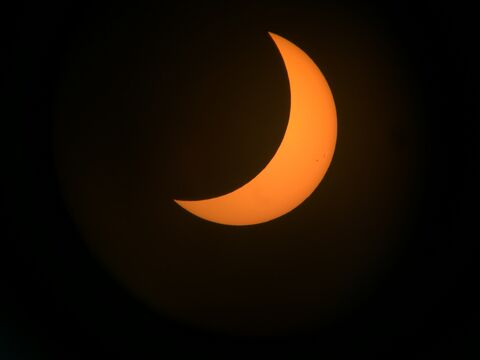
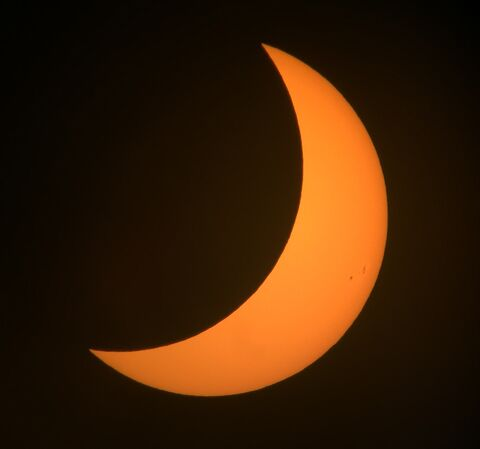
Update gallery

diff --git a/data/images/august-21-2017-total-solar-eclipse-2017-08-21.md b/data/images/august-21-2017-total-solar-eclipse-2017-08-21.md
@@ -13,8 +13,8 @@ sensor: iPhone 6 Plus
 sensor_temp_c:
 sub_seconds:
 sub_count:
-filter: 
-processing: iPhone 
+filter: none
+processing: []
 location: "Athens, TN"
 moon_illum_pct:
 object_type: Sun
@@ -23,9 +23,10 @@ catalogs: []
 constellation: 
 is_event: false
 event_type: 
-tags: [Sun,eclipse,solar eclipse]
+tags: [Sun, eclipse, solar eclipse]
 license: CC BY-NC 4.0
 master: "questar-iphone-archive/2017-08-21-total-solar-eclipse.jpg"
+crop: "0.2599,0.0219,0.5484,0.6845"
 ---
 
 Seestar S50 stack. Captured from the Athens, TN.

diff --git a/data/images/m45-the-pledies-2025-10-25.md b/data/images/m45-the-pledies-2025-10-25.md
@@ -19,7 +19,7 @@ location: "Raleigh area, North Carolina"
 moon_illum_pct: 15
 object_type: asterism
 sub_kind: 
-catalogs: []
+catalogs: [messier]
 constellation: 
 is_event: false
 event_type: 
